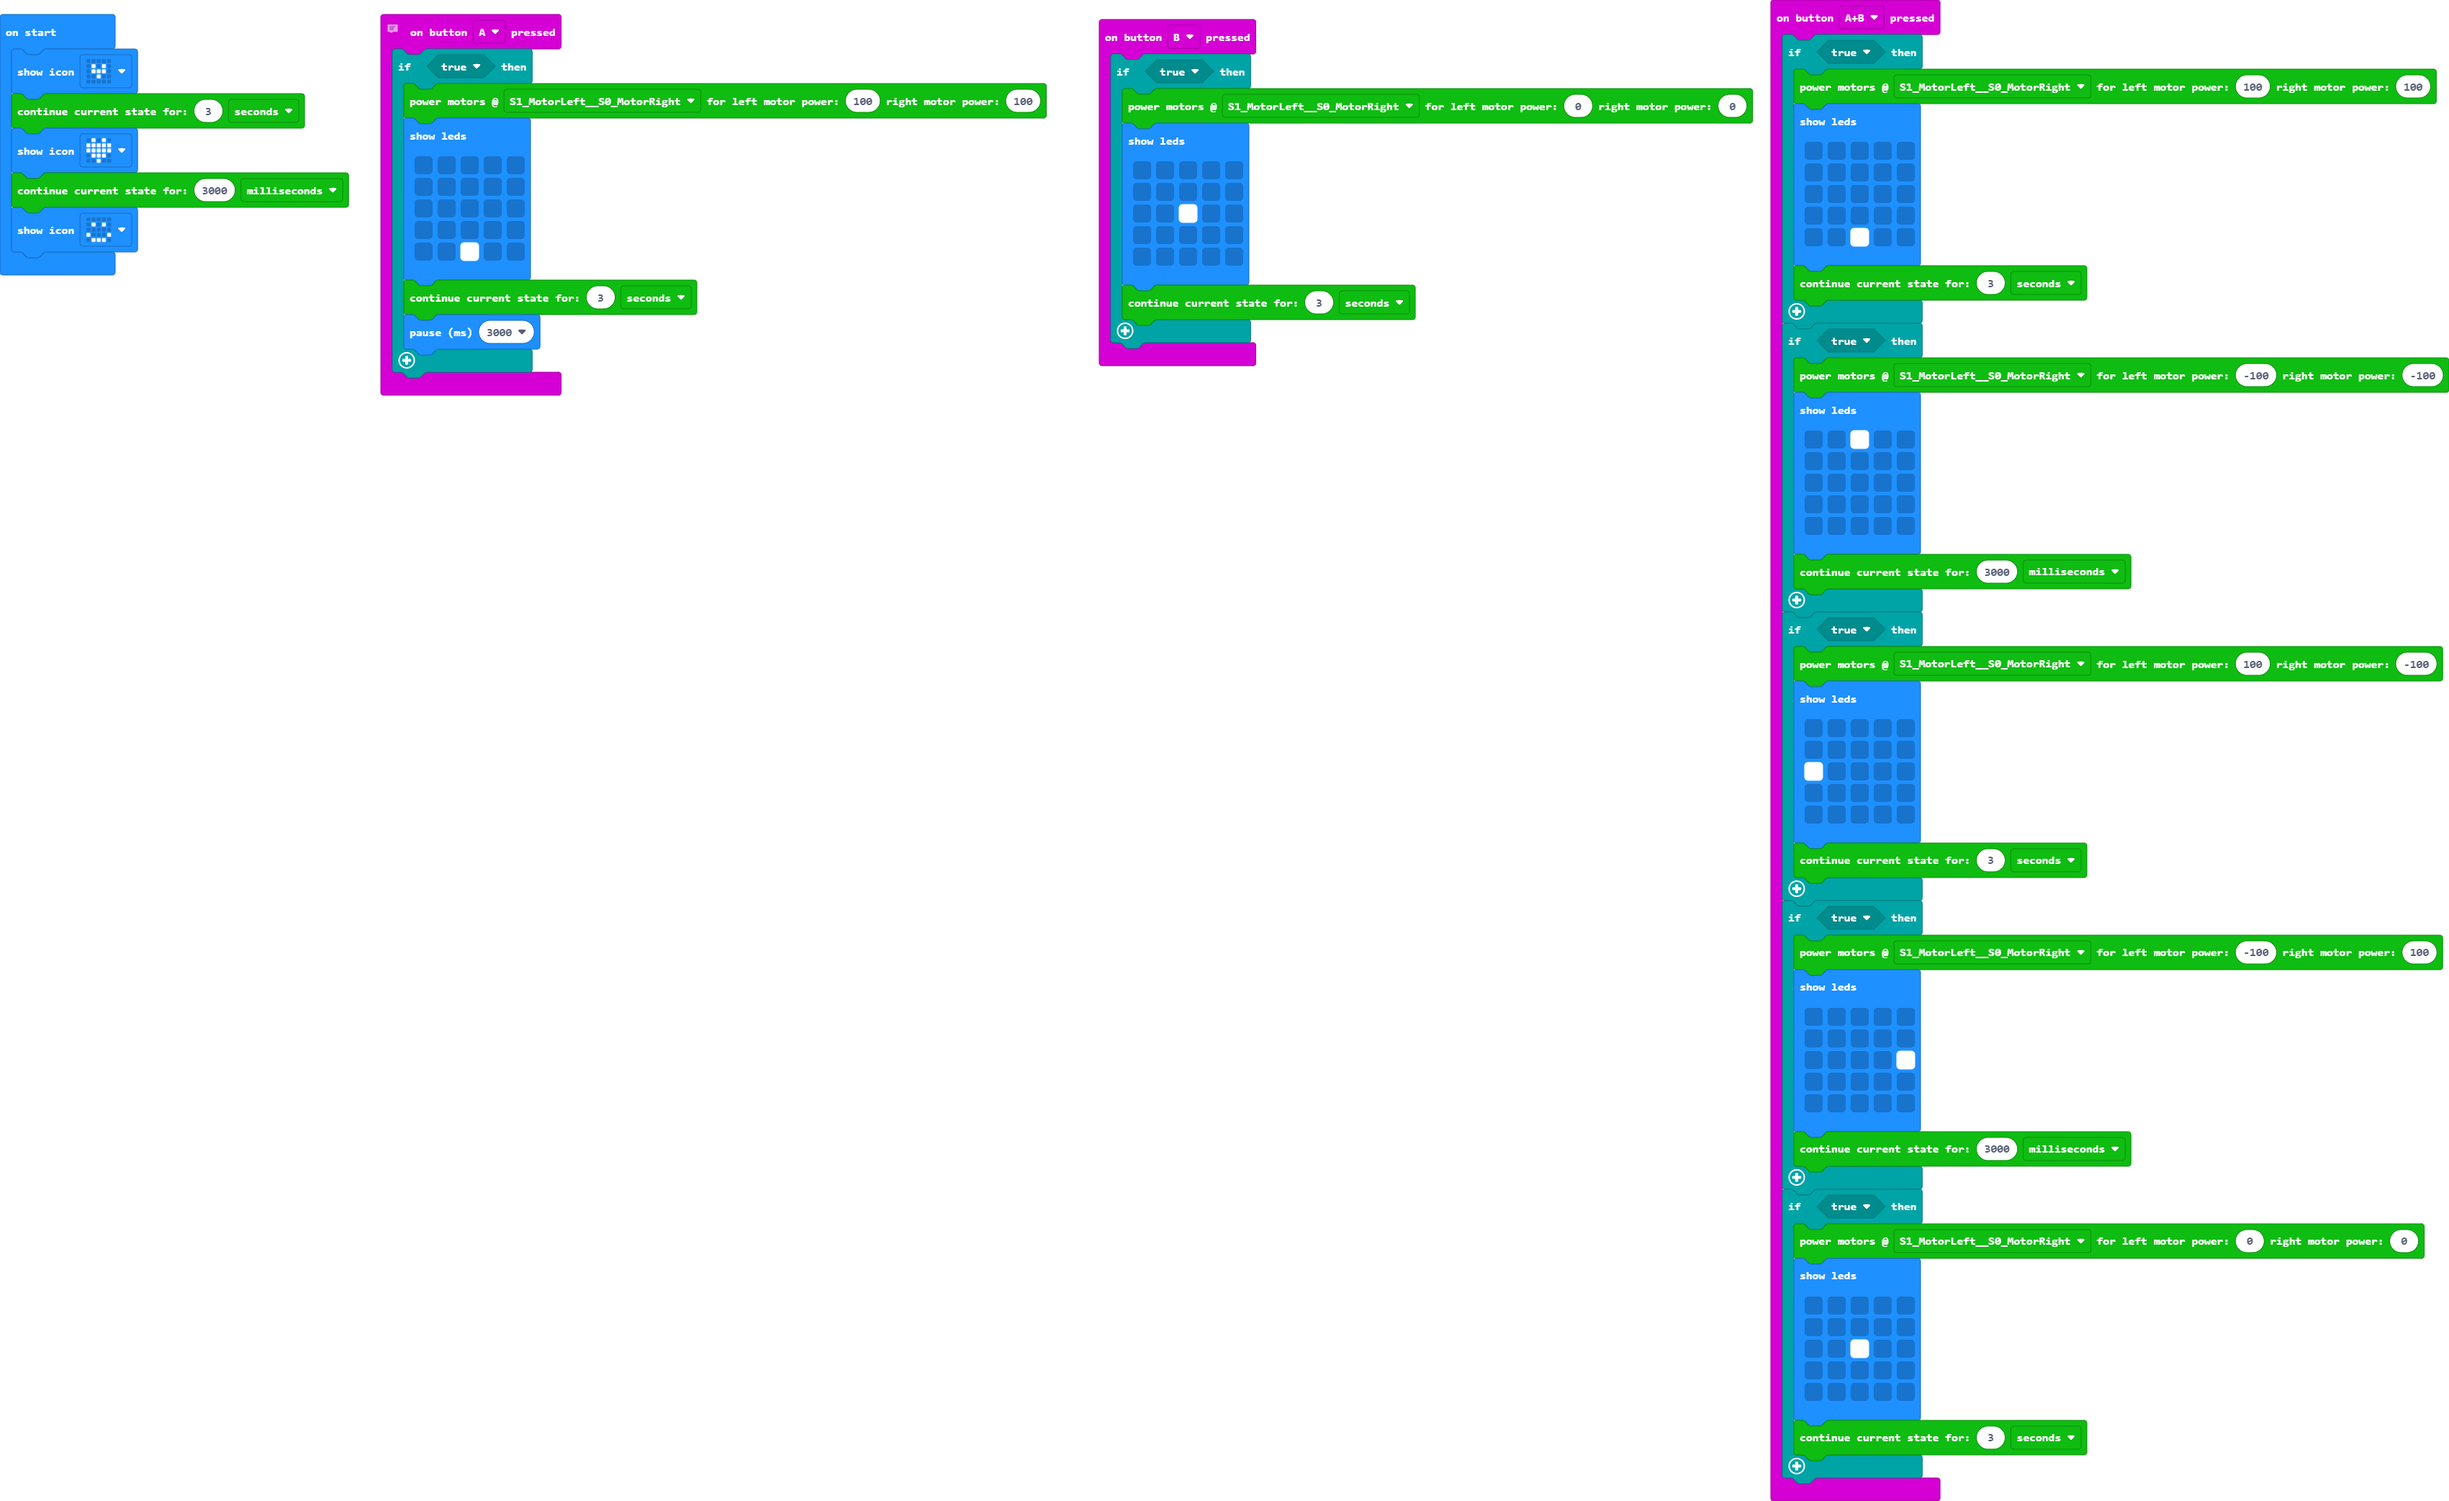
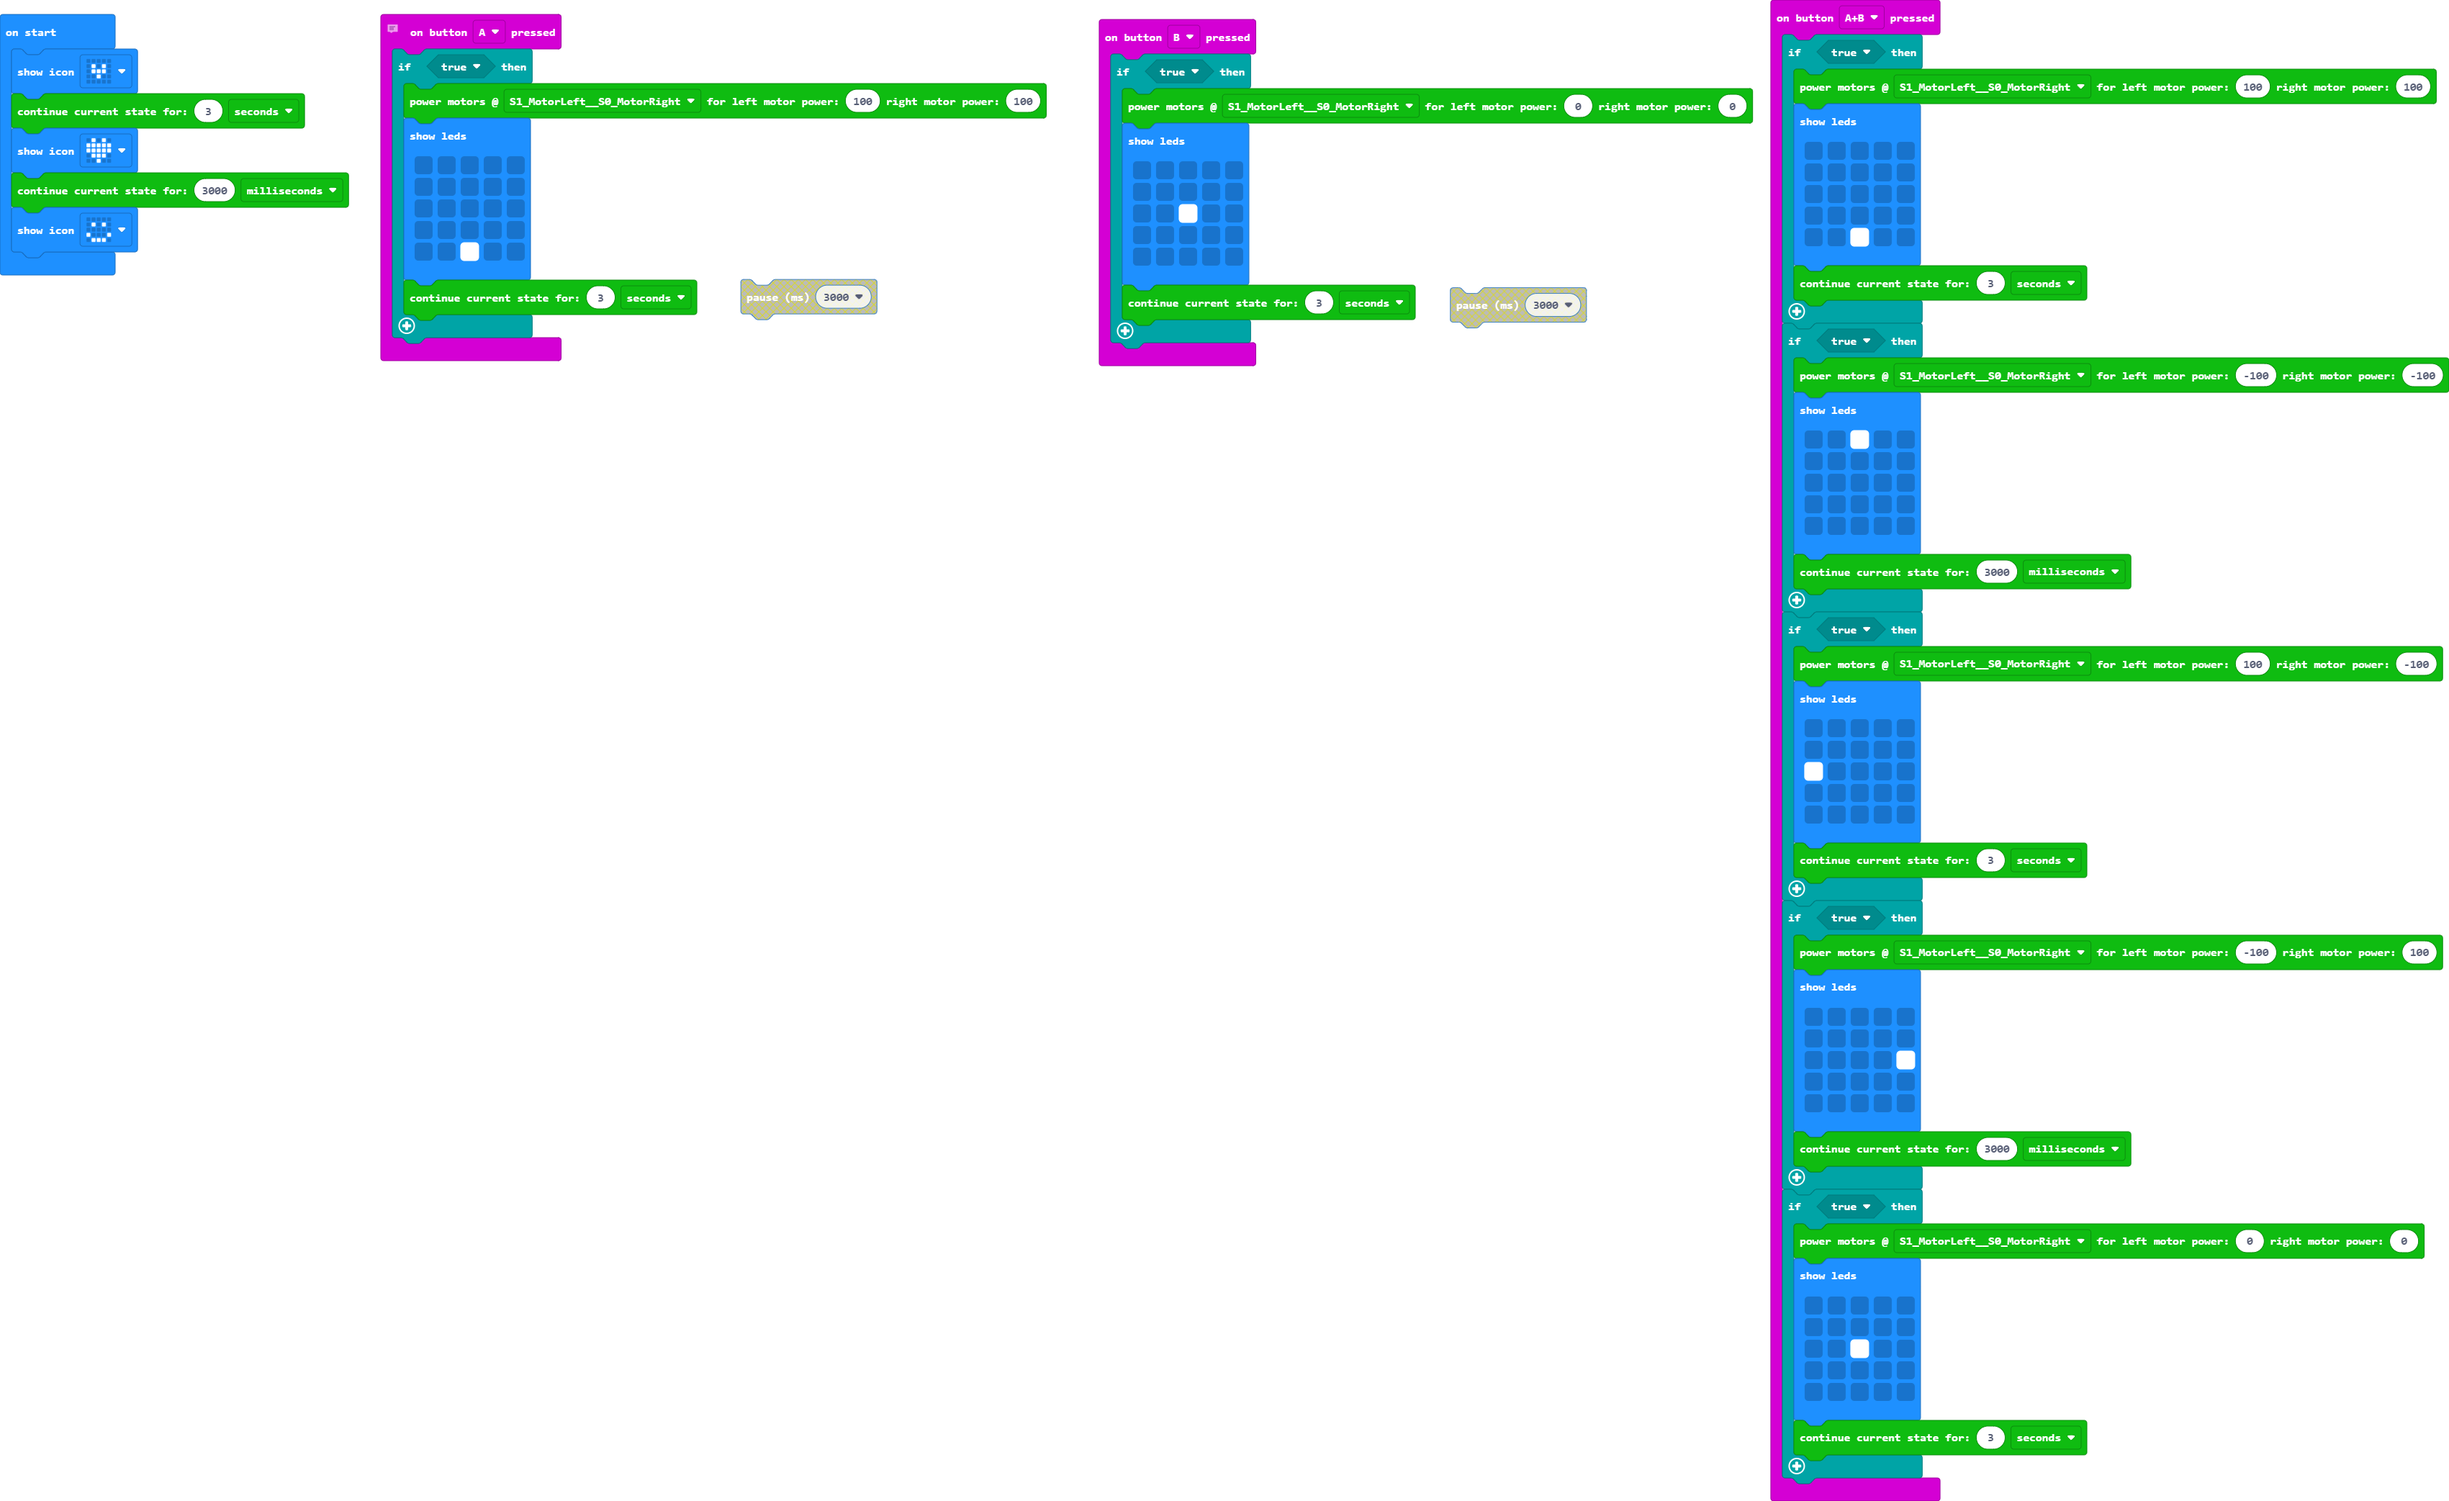
*** Move 'Delay' Blocks out of stack *** 22-0726-2140-makecode_customblock-servocontinuous-ef_wukong_pinsblue

Changed region(s): [[0.1558, 0.1871, 0.2493, 0.2806], [0.2804, 0.1871, 0.3739, 0.2182], [0.592, 0.1871, 0.6543, 0.2182]]

diff --git a/main.ts b/main.ts
@@ -10,7 +10,6 @@ input.onButtonPressed(Button.A, function () {
             . . # . .
             `)
         roboQuest.continueCurrentState_CountdownTimer_Set(3, Time_Units_Enum.Seconds)
-        basic.pause(3000)
     }
 })
 input.onButtonPressed(Button.AB, function () {
